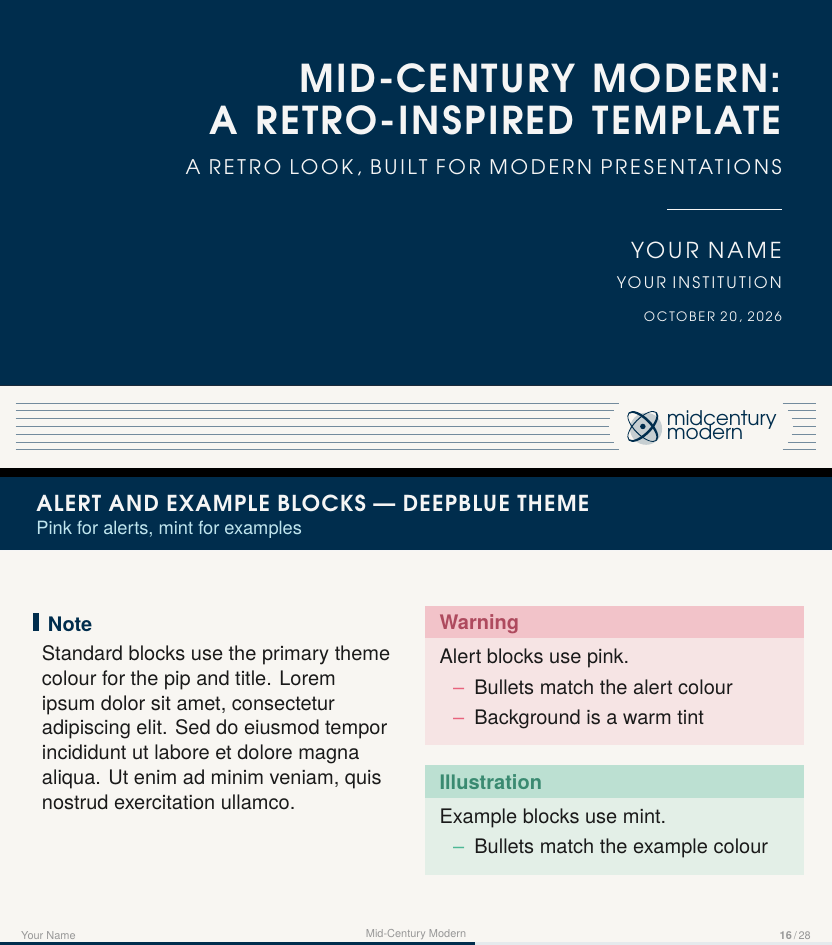
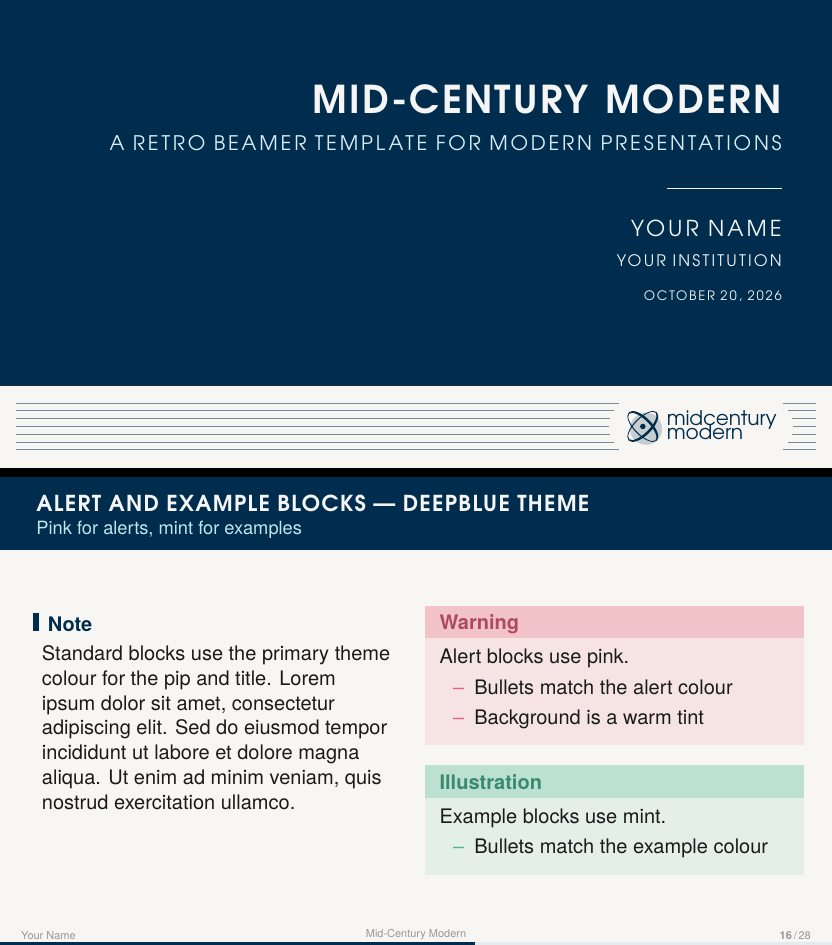
Tint the title-page subtitle and shorten the demo's title
The subtitle is set in mcmTitleEmph (mcmPrimaryAccent!60!white) again.
The demo's title becomes "Mid-Century Modern", subtitled "A retro Beamer
template for modern presentations"; title-page QA pages 1 and 21 follow.
Demo, test decks and the title-page captures rebuilt.

Claude Opus 5.5

Changed region(s): [[0.1562, 0.0614, 0.9375, 0.1841], [0.75, 0.2148, 0.9375, 0.3376]]

diff --git a/test/titlepage.tex b/test/titlepage.tex
@@ -54,8 +54,8 @@
 \mcmTheme{Kraft}
 
 % ---------------------------------------------------------------- 01 baseline
-\title{Mid-Century Modern:\\A Retro-Inspired Template}
-\subtitle{A retro look, built for modern presentations}
+\title{Mid-Century Modern}
+\subtitle{A retro Beamer template for modern presentations}
 \author{Your Name}
 \institute{Your Institution}
 \date{\today}
@@ -222,8 +222,8 @@
 
 % -------------------------------------------------------- 21 DeepBlue baseline
 \mcmTheme{DeepBlue}
-\title{Mid-Century Modern:\\A Retro-Inspired Template}
-\subtitle{A retro look, built for modern presentations}
+\title{Mid-Century Modern}
+\subtitle{A retro Beamer template for modern presentations}
 \author{Your Name}
 \institute{Your Institution}
 \date{\today}

diff --git a/demo.tex b/demo.tex
@@ -13,8 +13,8 @@
 % \mcmTheme{DeepBlue}
  % 
 % --- Metadata ---
-\title[Mid-Century Modern]{Mid-Century Modern:\\A Retro-Inspired Template}
-\subtitle{A retro look, built for modern presentations}
+\title{Mid-Century Modern}
+\subtitle{A retro Beamer template for modern presentations}
 \author{Your Name}
 \institute{Your Institution}
 \date{\today}
